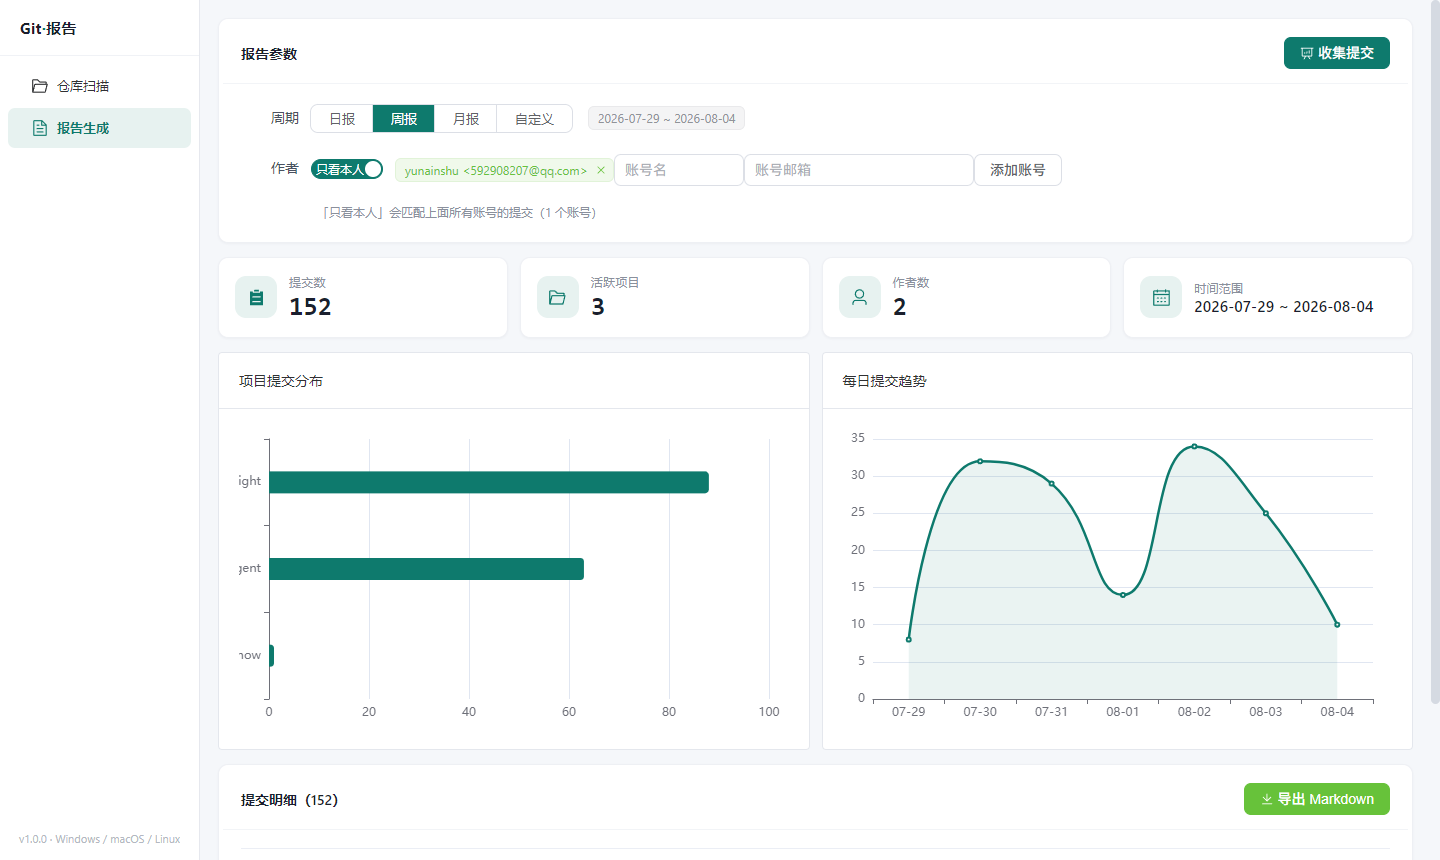
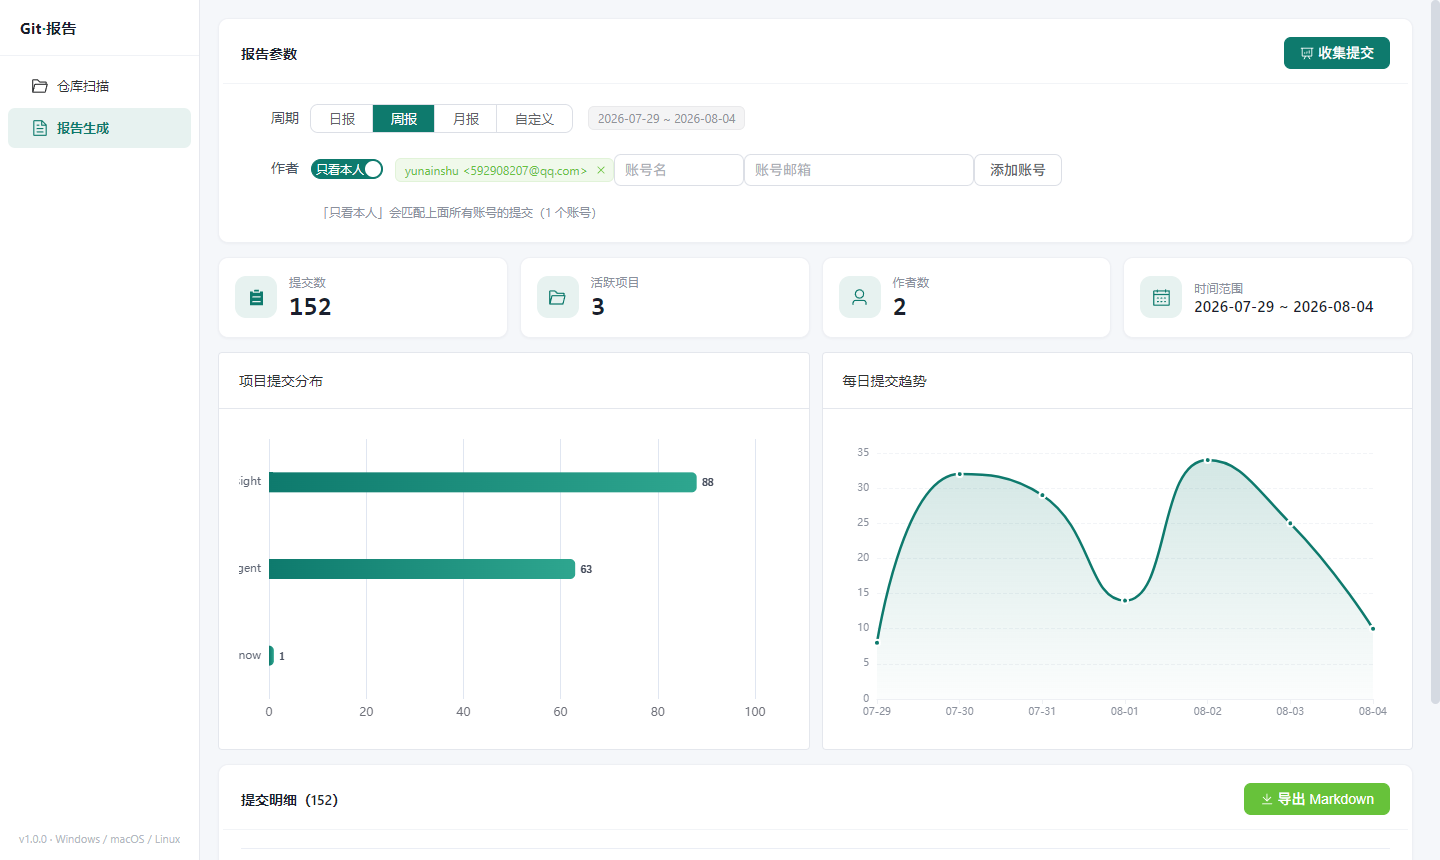
style: 图表美化
- 柱状图: 数值标签(等宽字体)、青绿渐变、圆角柱、轴细节
- 趋势图: 青绿渐变面积、数据圆点+白色描边、虚线分割线

diff --git a/src/views/ReportView.vue b/src/views/ReportView.vue
@@ -288,14 +288,37 @@ const projectBarOption = computed(() => {
   const top = filteredGroups.value.slice(0, 12).reverse()
   return {
     tooltip: { trigger: 'axis', axisPointer: { type: 'shadow' } },
-    grid: { left: 30, right: 20, top: 10, bottom: 30 },
+    grid: { left: 30, right: 34, top: 10, bottom: 30 },
     xAxis: { type: 'value', minInterval: 1 },
-    yAxis: { type: 'category', data: top.map((g) => g.project) },
+    yAxis: {
+      type: 'category',
+      data: top.map((g) => g.project),
+      axisLabel: { color: '#5d6472', fontSize: 11 },
+      axisLine: { show: false },
+      axisTick: { show: false },
+    },
     series: [{
       type: 'bar',
       data: top.map((g) => g.commits.length),
-      itemStyle: { color: '#0e7a6d', borderRadius: [0, 4, 4, 0] },
-      barMaxWidth: 22,
+      barMaxWidth: 20,
+      itemStyle: {
+        borderRadius: [0, 5, 5, 0],
+        color: {
+          type: 'linear', x: 0, y: 0, x2: 1, y2: 0,
+          colorStops: [
+            { offset: 0, color: '#0e7a6d' },
+            { offset: 1, color: '#2ea68f' },
+          ],
+        },
+      },
+      label: {
+        show: true,
+        position: 'right',
+        color: '#4a5160',
+        fontSize: 11,
+        fontFamily: "'IBM Plex Mono', monospace",
+        fontWeight: 600,
+      },
     }],
   }
 })
@@ -306,16 +329,37 @@ const trendOption = computed(() => {
   const sorted = [...m.entries()].sort((a, b) => (a[0] < b[0] ? -1 : 1))
   return {
     tooltip: { trigger: 'axis' },
-    grid: { left: 30, right: 20, top: 10, bottom: 30 },
-    xAxis: { type: 'category', data: sorted.map((e) => e[0].slice(5)) },
-    yAxis: { type: 'value', minInterval: 1 },
+    grid: { left: 34, right: 20, top: 24, bottom: 30 },
+    xAxis: {
+      type: 'category',
+      data: sorted.map((e) => e[0].slice(5)),
+      boundaryGap: false,
+      axisLabel: { color: '#8a909c', fontSize: 10 },
+      axisLine: { lineStyle: { color: '#eef0f4' } },
+    },
+    yAxis: {
+      type: 'value',
+      minInterval: 1,
+      axisLabel: { color: '#8a909c', fontSize: 10 },
+      splitLine: { lineStyle: { color: '#f2f4f7', type: 'dashed' } },
+    },
     series: [{
       type: 'line',
       smooth: true,
-      areaStyle: { color: 'rgba(14,122,109,0.12)' },
+      symbol: 'circle',
+      symbolSize: 6,
       data: sorted.map((e) => e[1]),
-      itemStyle: { color: '#0e7a6d' },
-      lineStyle: { width: 2.5 },
+      lineStyle: { width: 2.5, color: '#0e7a6d' },
+      itemStyle: { color: '#0e7a6d', borderColor: '#fff', borderWidth: 2 },
+      areaStyle: {
+        color: {
+          type: 'linear', x: 0, y: 0, x2: 0, y2: 1,
+          colorStops: [
+            { offset: 0, color: 'rgba(14, 122, 109, 0.26)' },
+            { offset: 1, color: 'rgba(14, 122, 109, 0.02)' },
+          ],
+        },
+      },
     }],
   }
 })
